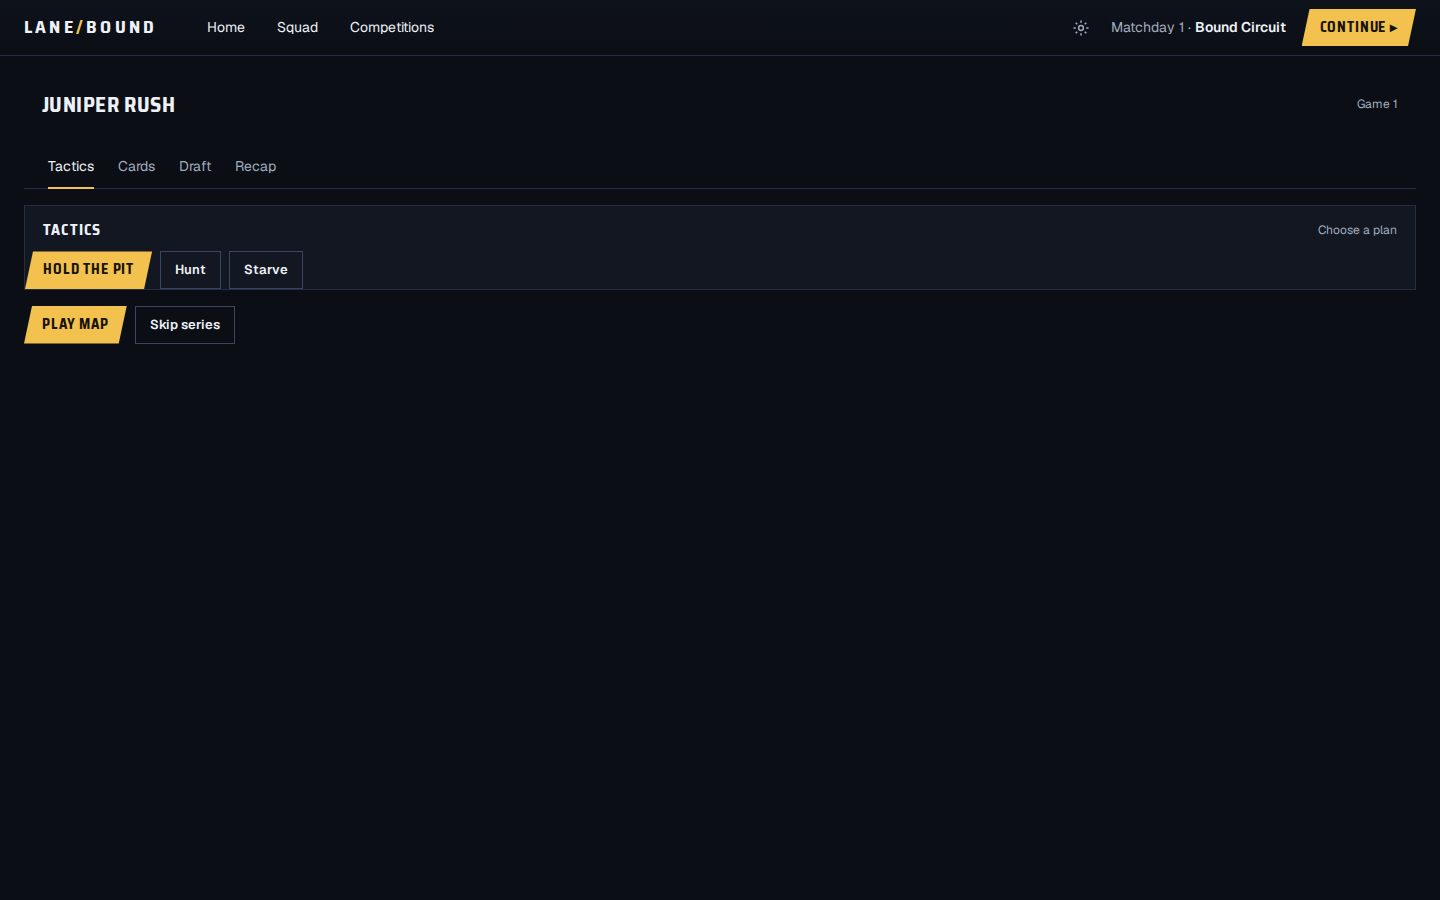
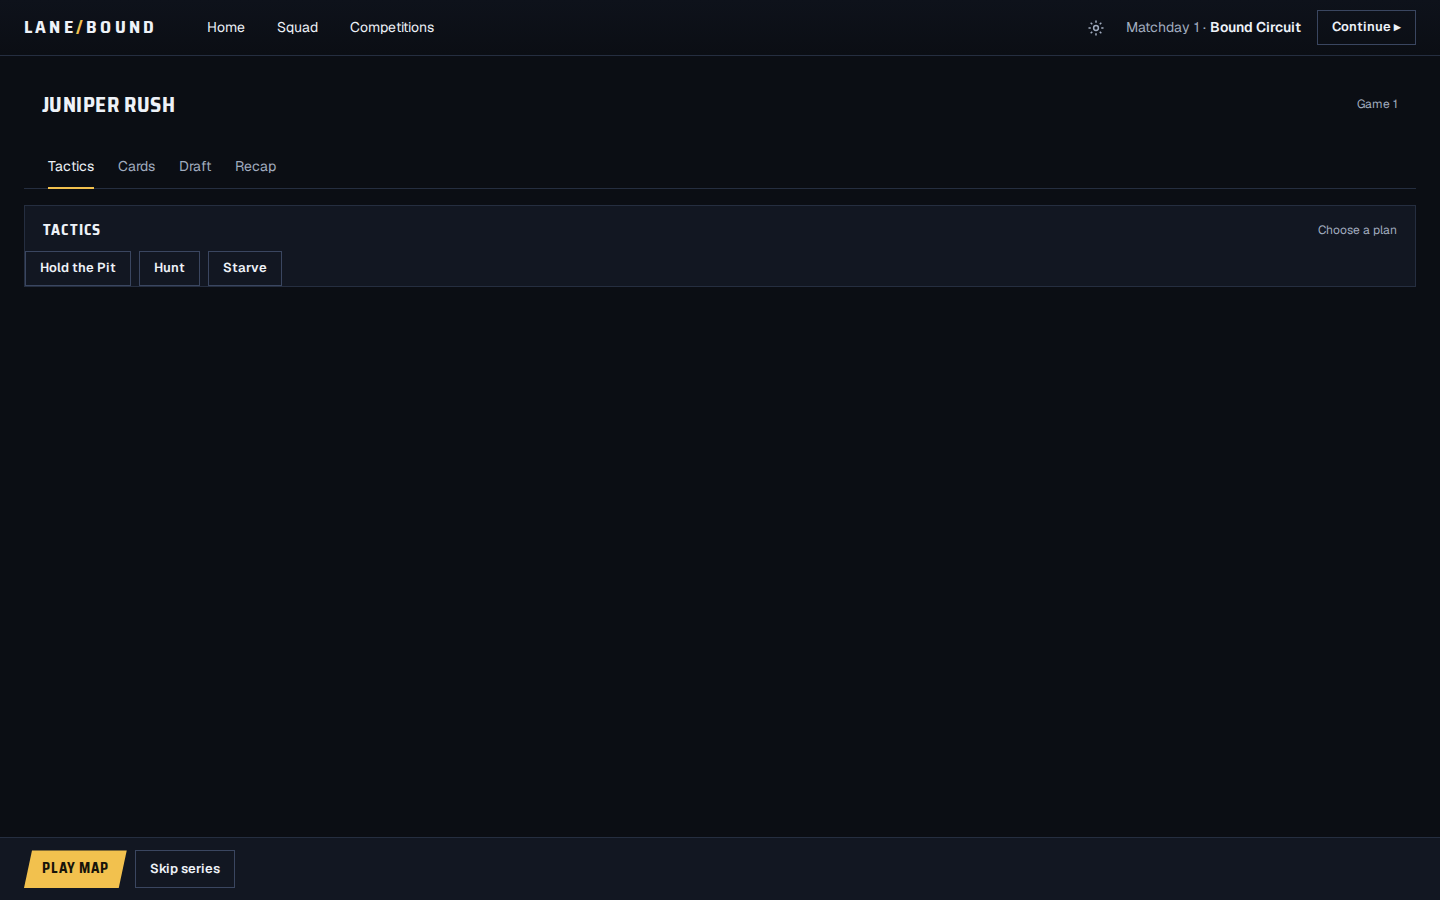
Pin Play map and Skip series to a sticky footer.
The bar uses the panel fill and a line border, and it stays inside 1280x800. Play map is the only gold button on the match screen.

Changed region(s): [[0.0, 0.28, 0.2188, 0.4044], [0.75, 0.0, 1.0, 0.0622], [0.0, 0.9333, 0.1562, 0.9956]]

diff --git a/apps/career/e2e/c5.spec.ts b/apps/career/e2e/c5.spec.ts
@@ -30,7 +30,7 @@ test("a Bo3 on the fake runner stays fearless on game 2 and recaps without a rep
   await expect(page.locator('[data-screen="cards"]')).toHaveCount(0);
   await expect(page.getByText("Game 2 cannot repeat game 1.")).toBeVisible();
   await page.getByRole("button", { name: "Cards" }).click();
-  await expect(page.locator('[data-screen="cards"] button').first()).toBeDisabled();
+  await expect(page.locator('section[data-screen="cards"] button').first()).toBeDisabled();
   await page.getByRole("button", { name: "Tactics" }).click();
   await expect(page.getByRole("button", { name: "Hold the Pit" })).toBeDisabled();
 
@@ -39,7 +39,7 @@ test("a Bo3 on the fake runner stays fearless on game 2 and recaps without a rep
   await page.getByRole("button", { name: "Draft" }).click();
   await expect(page.getByText("Game 1", { exact: true })).toBeVisible();
   await page.getByRole("button", { name: "Cards" }).click();
-  await expect(page.locator('[data-screen="cards"] button').first()).toBeEnabled();
+  await expect(page.locator('section[data-screen="cards"] button').first()).toBeEnabled();
 });
 
 test("prep and recap at the three desktop widths", async ({ page }) => {
@@ -48,7 +48,7 @@ test("prep and recap at the three desktop widths", async ({ page }) => {
       name: "09-tactics",
       open: async (page) => {
         await enter(page);
-        await expect(page.locator('[data-screen="tactics"]')).toBeVisible();
+        await expect(page.locator('section[data-screen="tactics"]')).toBeVisible();
       },
     },
     {
@@ -56,7 +56,7 @@ test("prep and recap at the three desktop widths", async ({ page }) => {
       open: async (page) => {
         await enter(page);
         await page.getByRole("button", { name: "Cards" }).click();
-        await expect(page.locator('[data-screen="cards"]')).toBeVisible();
+        await expect(page.locator('section[data-screen="cards"]')).toBeVisible();
       },
     },
     {
@@ -66,7 +66,7 @@ test("prep and recap at the three desktop widths", async ({ page }) => {
         await page.getByTestId("play-map").click();
         await expect(page.getByTestId("recap")).toBeVisible();
         await page.getByRole("button", { name: "Draft" }).click();
-        await expect(page.locator('[data-screen="draft"]')).toBeVisible();
+        await expect(page.locator('section[data-screen="draft"]')).toBeVisible();
       },
     },
     {

diff --git a/apps/career/e2e/cd-c6.spec.ts b/apps/career/e2e/cd-c6.spec.ts
@@ -21,9 +21,50 @@ test("match tabs show one pane", async ({ page }) => {
   await expect(page.getByText("No map yet.")).toBeVisible();
 });
 
+test("the match footer stays on screen and Play map is the only gold button", async ({ page }) => {
+  await page.setViewportSize({ width: 1280, height: 800 });
+  await start(page);
+  await page.getByRole("button", { name: "Continue" }).click();
+  await page.getByTestId("play-map").click();
+  await expect(page.getByTestId("coach-mark")).toBeVisible();
+  const footer = page.getByTestId("match-footer");
+  const box = await footer.boundingBox();
+  expect(box).not.toBeNull();
+  expect(box!.y).toBeGreaterThanOrEqual(0);
+  expect(box!.y + box!.height).toBeLessThanOrEqual(800);
+  const paint = await footer.evaluate((el) => {
+    const probe = document.createElement("div");
+    probe.style.background = "var(--c-panel)";
+    probe.style.borderTop = "1px solid var(--c-line)";
+    document.body.append(probe);
+    const expected = getComputedStyle(probe);
+    const style = getComputedStyle(el);
+    const result = {
+      position: style.position,
+      background: style.backgroundColor,
+      borderTop: style.borderTopColor,
+      panel: expected.backgroundColor,
+      line: expected.borderTopColor,
+    };
+    probe.remove();
+    return result;
+  });
+  expect(paint.position).toBe("sticky");
+  expect(paint.background).toBe(paint.panel);
+  expect(paint.borderTop).toBe(paint.line);
+  const play = await page.getByTestId("play-map").boundingBox();
+  expect(play).not.toBeNull();
+  const hit = await page.evaluate(({ x, y }) => {
+    const el = document.elementFromPoint(x, y);
+    return el ? el.closest("[data-testid='play-map']") !== null : false;
+  }, { x: play!.x + play!.width / 2, y: play!.y + play!.height / 2 });
+  expect(hit).toBe(true);
+  await expect(page.locator("button.btn-primary:not([disabled])")).toHaveCount(1);
+});
+
 async function expectOne(page: Page, screen: string) {
   for (const pane of ["tactics", "cards", "draft"]) {
-    await expect(page.locator(`[data-screen="${pane}"]`)).toHaveCount(pane === screen ? 1 : 0);
+    await expect(page.locator(`section[data-screen="${pane}"]`)).toHaveCount(pane === screen ? 1 : 0);
   }
   await expect(page.getByTestId("recap")).toHaveCount(0);
 }

diff --git a/apps/career/src/match.tsx b/apps/career/src/match.tsx
@@ -46,7 +46,8 @@ export function MatchDeck({
   const mark = session.maps_played >= 1 && session.maps_played <= 5 ? COACH[session.maps_played - 1] : null;
 
   return (
-    <main className="wrap" data-screen={mode === "recap" ? "recap" : "prep"}>
+    <main className="wrap matchdeck" data-screen="match">
+      <div className="matchscroll">
       <div className="ch">
         <h2 className="disp">{club?.name}</h2>
         <span className="meta">{draft.fixture_id ? `Game ${draft.game_index}` : "Season complete"}</span>
@@ -77,7 +78,7 @@ export function MatchDeck({
               {TACTIC.map(([id, label]) => (
                 <Button
                   key={id}
-                  variant={session.human_preset === id ? "primary" : "secondary"}
+                  variant="secondary"
                   disabled={locked}
                   onClick={() => onSession(setPreset(session, id))}
                 >
@@ -144,7 +145,8 @@ export function MatchDeck({
           </section>
       ) : null}
       {mode === "recap" ? <Recap map={map} players={session.players} /> : null}
-          <div className="row">
+      </div>
+      <div className="matchfoot" data-testid="match-footer">
             <Button
               variant="primary"
               data-testid="play-map"
@@ -167,7 +169,7 @@ export function MatchDeck({
             >
               Skip series
             </Button>
-          </div>
+      </div>
     </main>
   );
 }

diff --git a/apps/career/src/app.css b/apps/career/src/app.css
@@ -64,6 +64,9 @@ button.btn-primary:disabled {
 .faces { display: grid; grid-template-columns: repeat(7, 1fr); gap: 8px; }
 .faces .clubpick { padding: 8px; }
 .faces img { width: 100%; height: auto; display: block; }
+.matchdeck { height: calc(100vh - 56px); display: flex; flex-direction: column; overflow: hidden; padding: 0; gap: 0; }
+.matchscroll { flex: 1; min-height: 0; overflow: auto; padding: 20px 24px; display: grid; gap: 16px; align-content: start; }
+.matchfoot { position: sticky; bottom: 0; background: var(--c-panel); border-top: 1px solid var(--c-line); padding: 12px 24px; display: flex; gap: 8px; z-index: 5; }
 .sub { display: flex; gap: 8px; }
 .sub button.on { background: var(--c-panel-2); }
 .match { border: 1px solid var(--c-line); padding: 12px; display: grid; gap: 6px; }

diff --git a/apps/career/src/CareerApp.tsx b/apps/career/src/CareerApp.tsx
@@ -154,7 +154,10 @@ export function CareerApp() {
           <div className="date">
             {dayLabel} · <b>Bound Circuit</b>
           </div>
-          <Button variant="primary" onClick={() => setScreen("tactics")}>
+          <Button
+            variant={screen === "tactics" || screen === "cards" || screen === "draft" || screen === "recap" ? "secondary" : "primary"}
+            onClick={() => setScreen("tactics")}
+          >
             Continue ▸
           </Button>
         </header>
